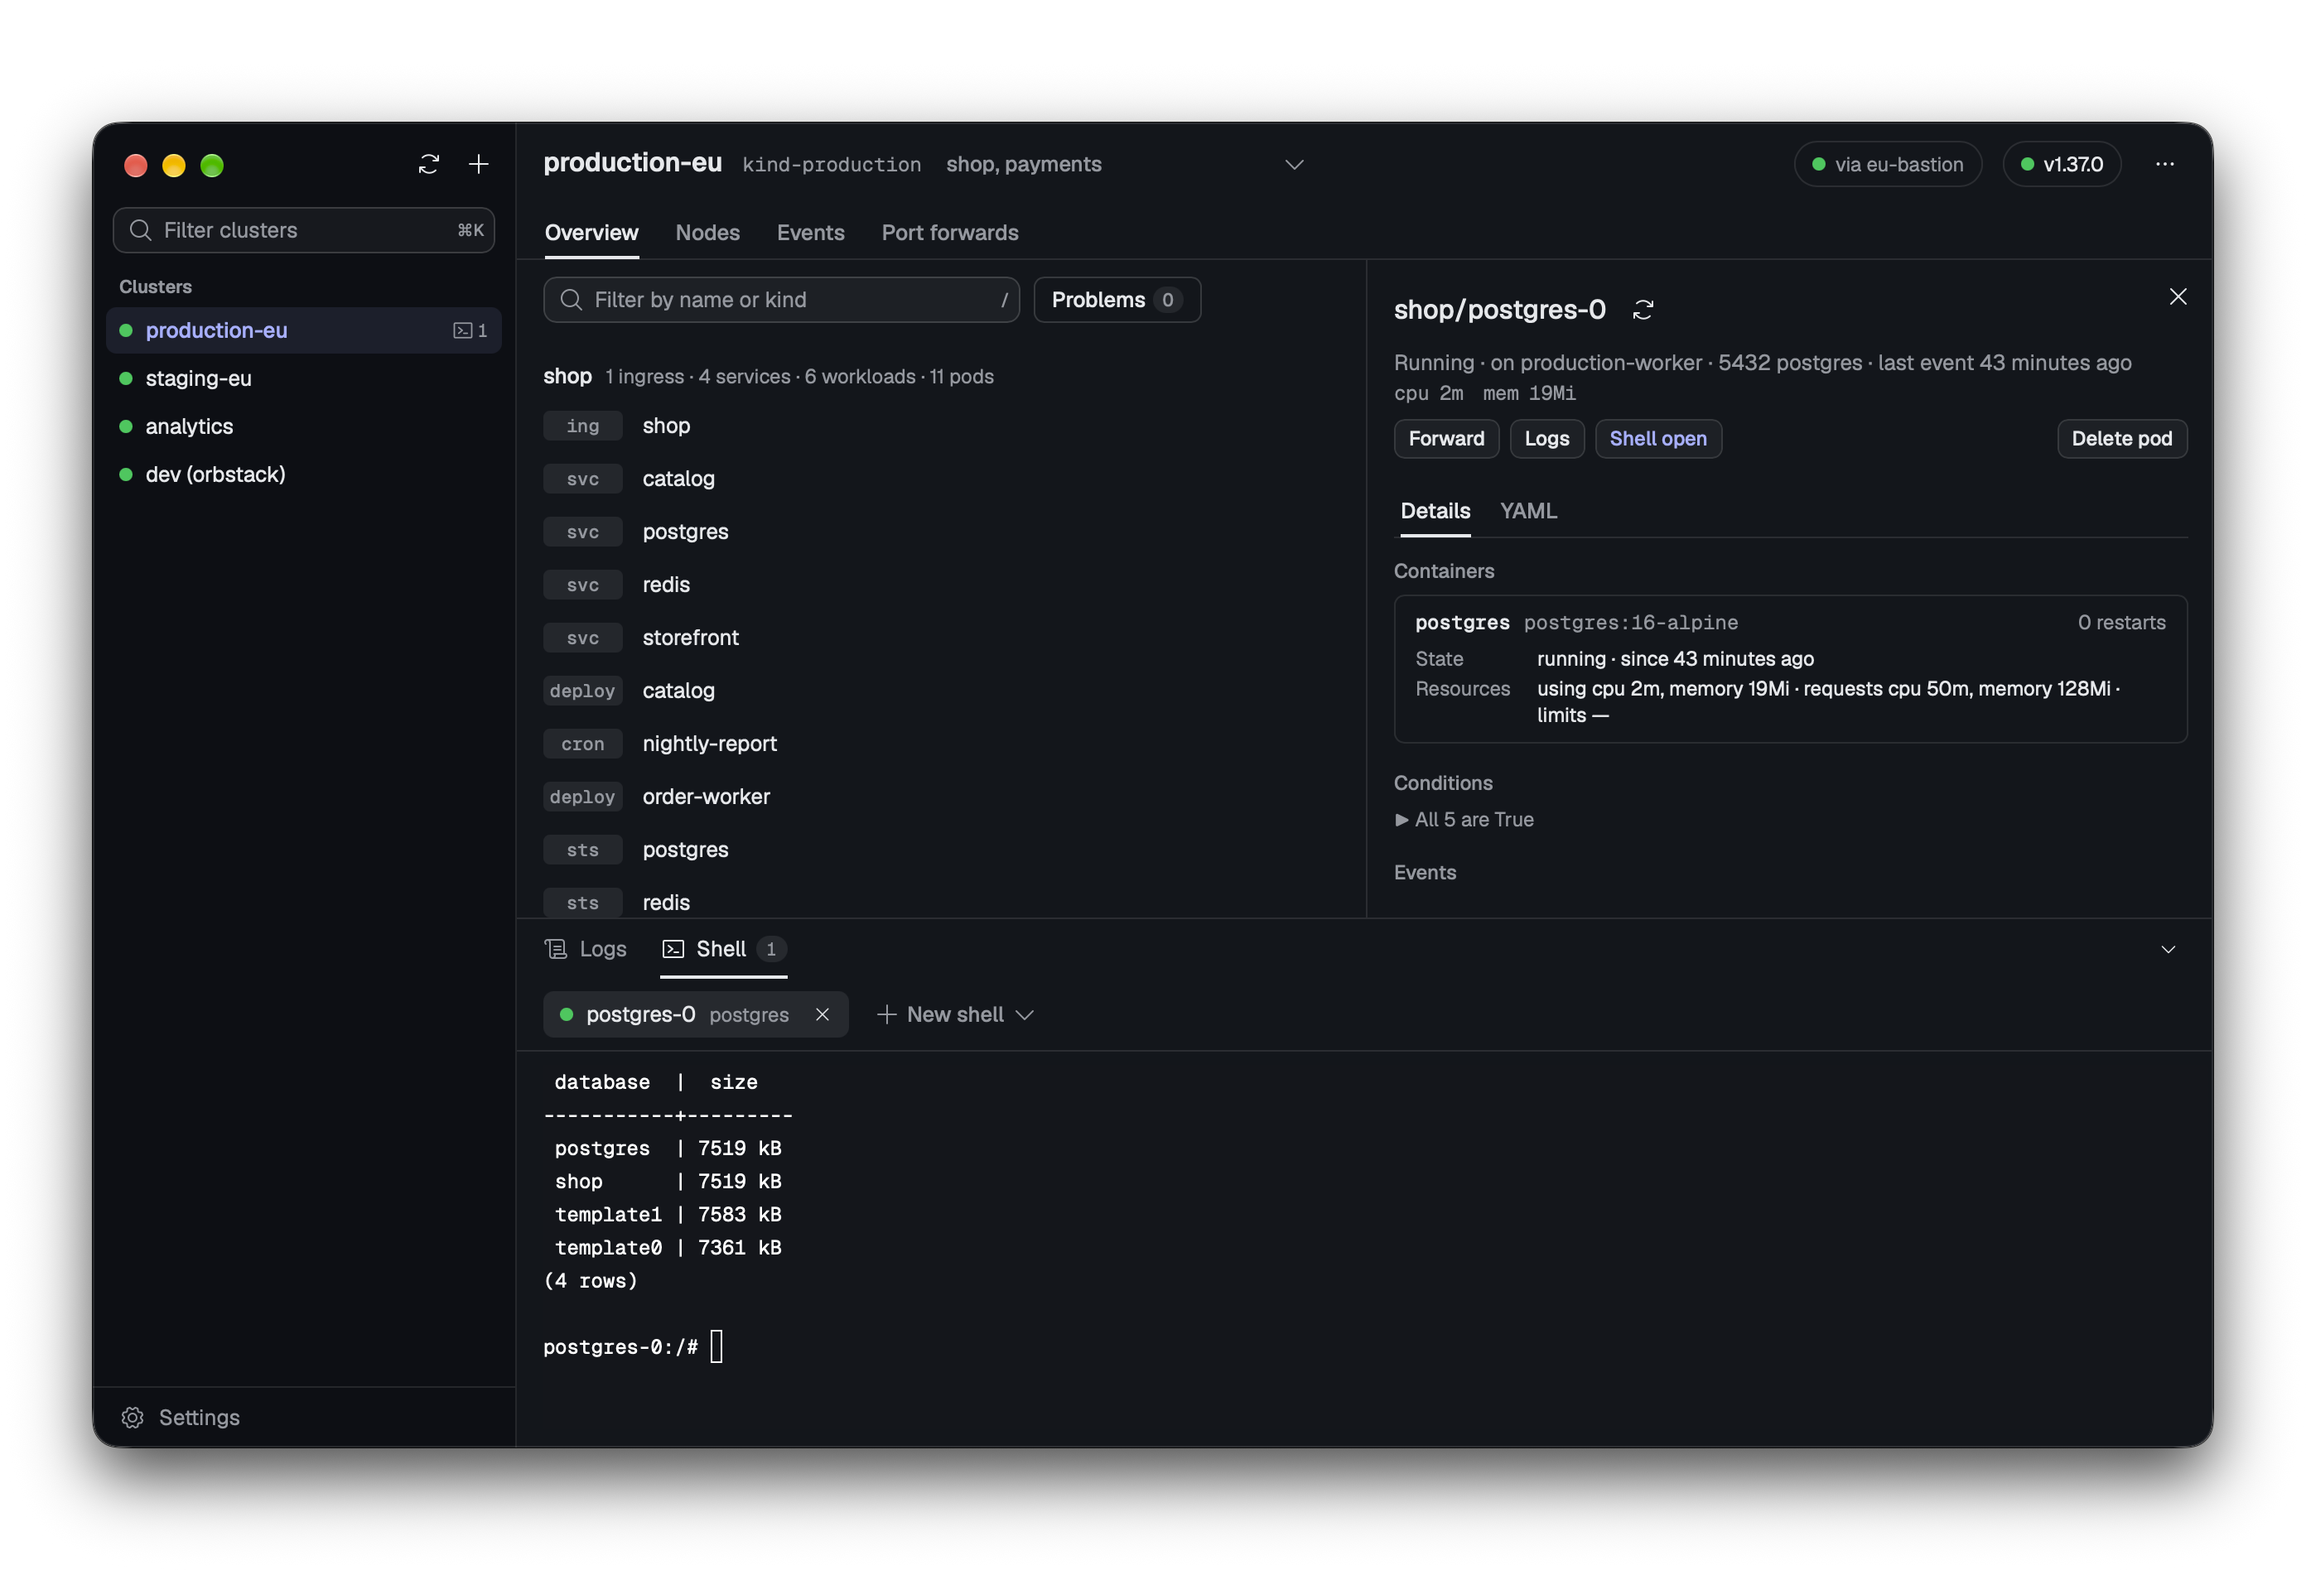
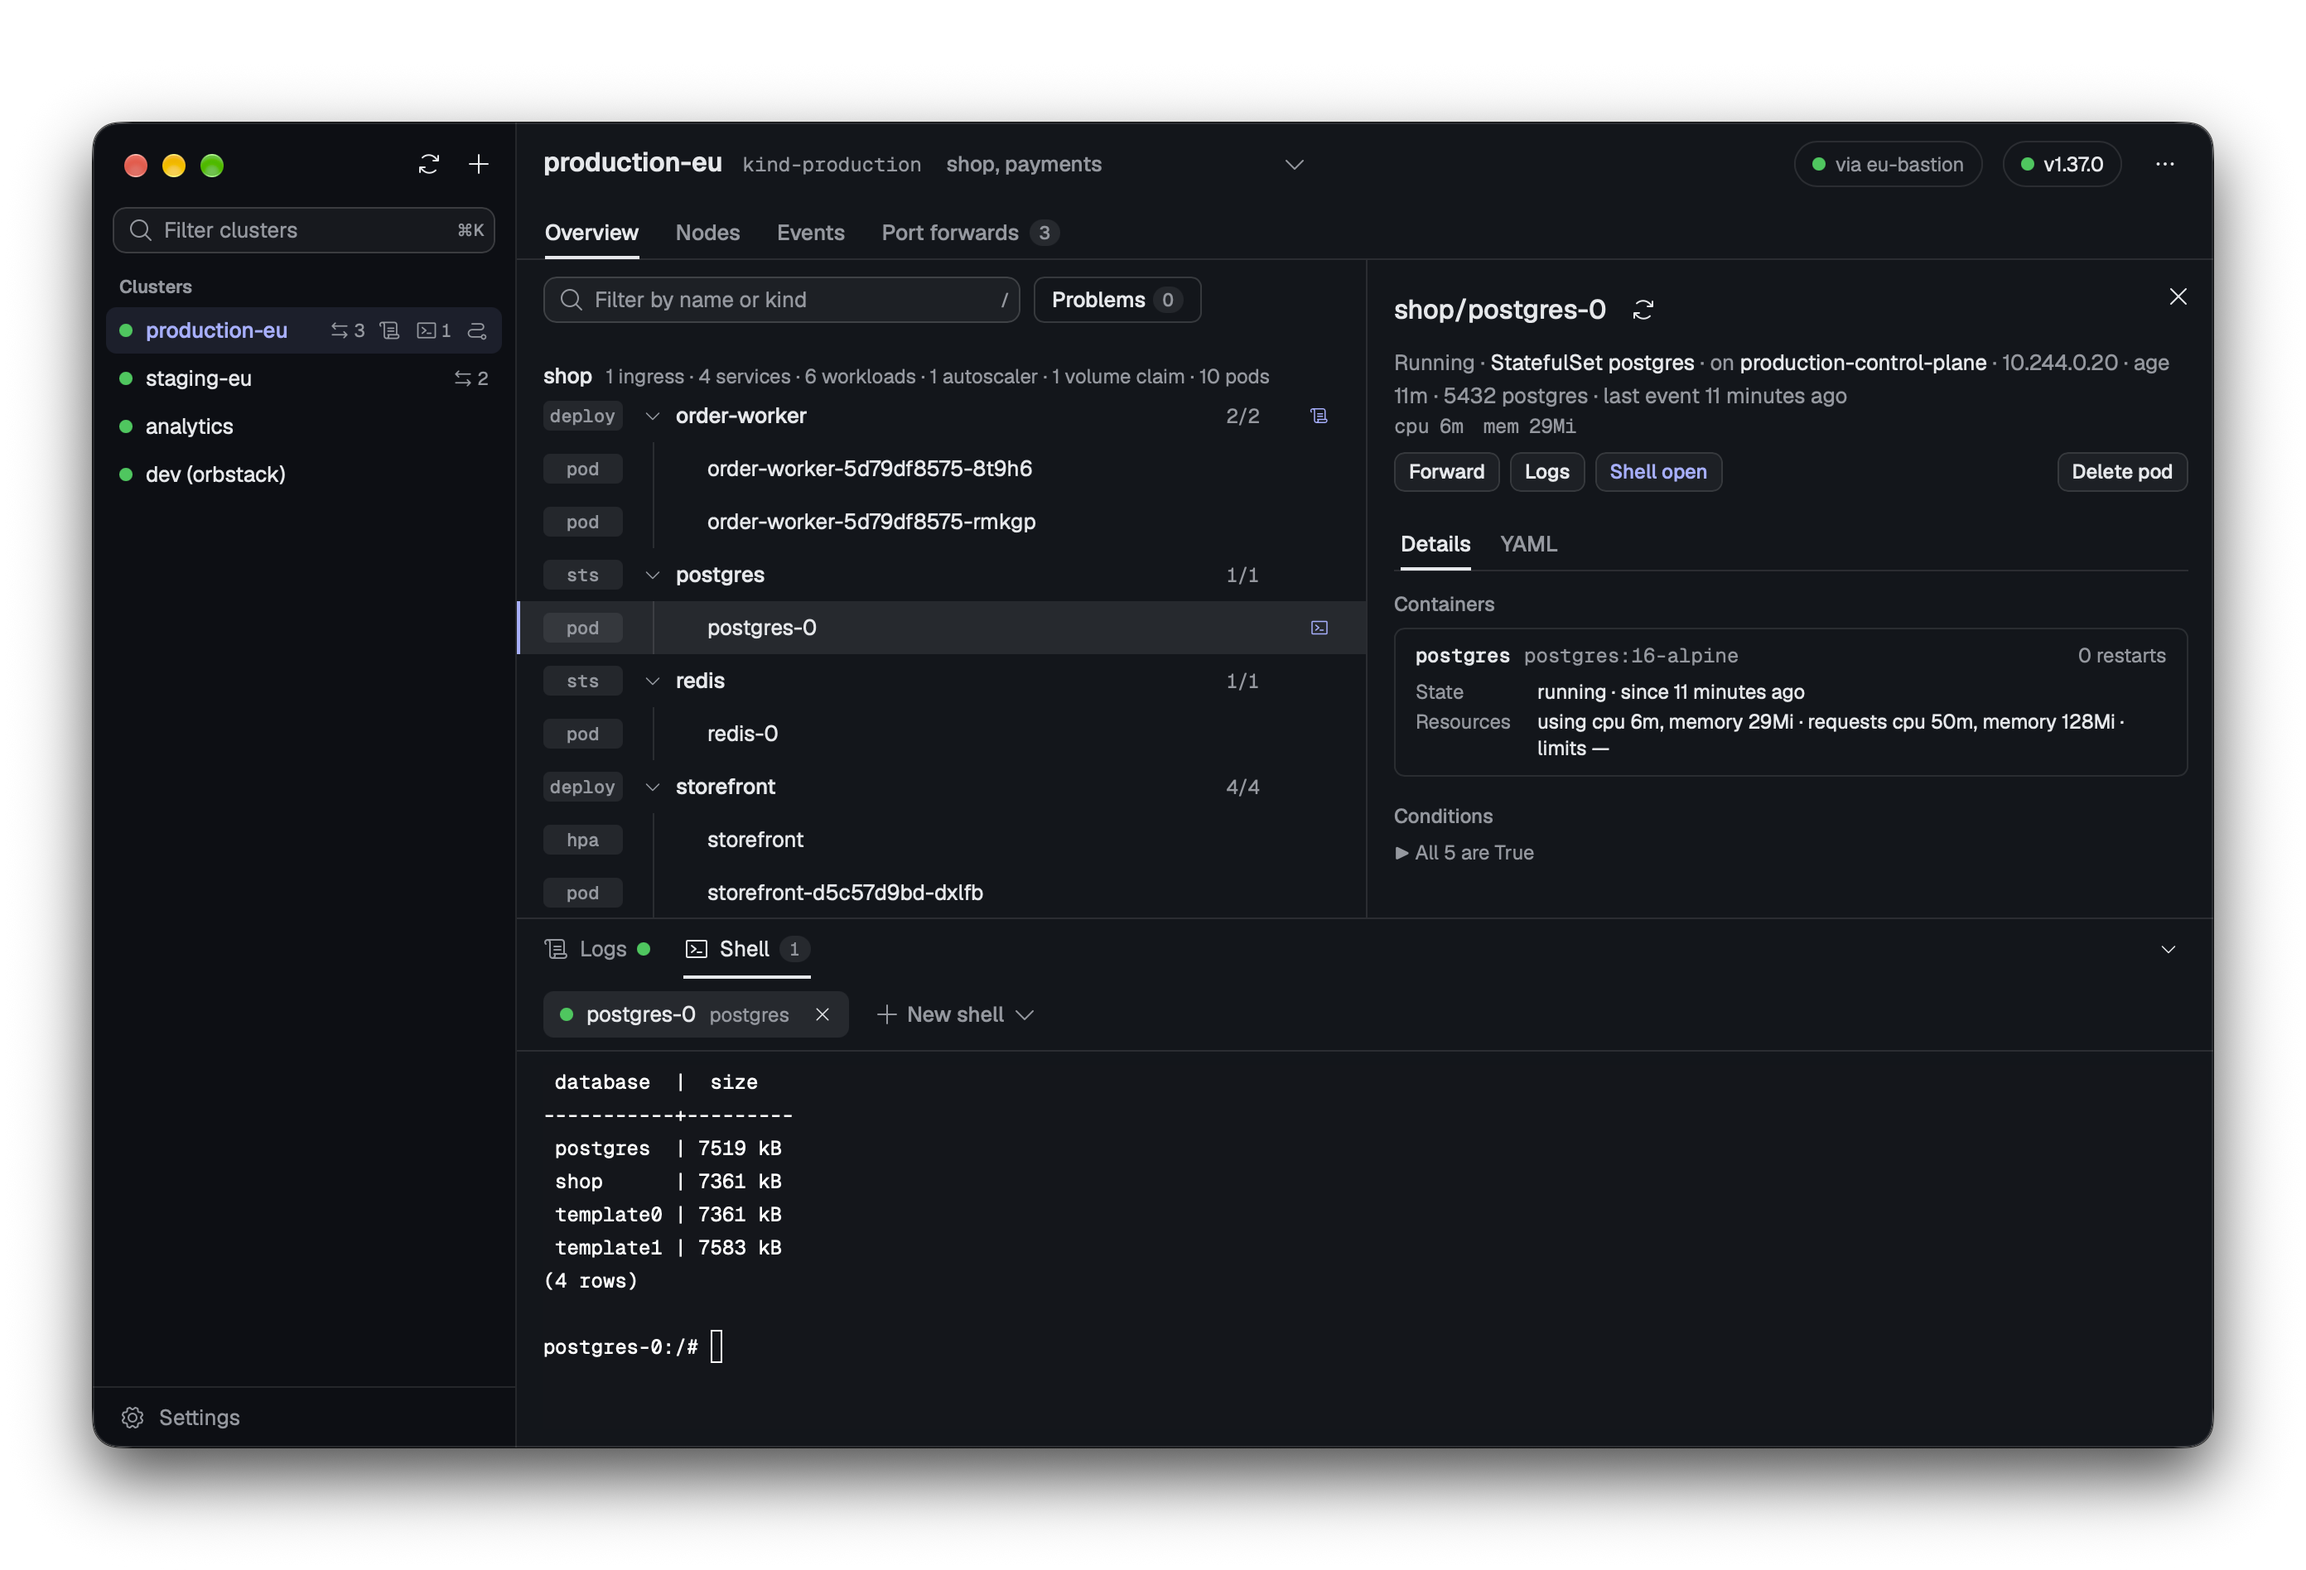
docs: retake screenshots for the overview redesign and list the overview in the README

diff --git a/README.md b/README.md
@@ -2,13 +2,14 @@
 
 A Kubernetes desktop app that can connect to clusters through SSH jump hosts.
 
-> Kubereach is early (v0.1). Expect rough edges, and please [open an issue](https://github.com/edereagzi/kubereach/issues) when you hit one.
+> Kubereach is early (v0.3). Expect rough edges, and please [open an issue](https://github.com/edereagzi/kubereach/issues) when you hit one.
 
-![A deployment in a cluster reached through a Route of two SSH servers](docs/screenshots/workload.png)
+![The overview of a cluster reached through a Route of two SSH servers](docs/screenshots/workload.png)
 
 ## What it does
 
 - Reaches clusters directly or through a Route: one or more SSH servers, each dialled through the previous one.
+- An overview of each namespace: pods under the workload that runs them with its ready count, Jobs, volume claims and autoscalers, and a Problems filter.
 - Follows logs from a single pod or from every pod of a workload, with filtering.
 - Opens shells in containers.
 - Shows events, and pod diagnosis: container states, restarts, previous-run logs and failing conditions.
